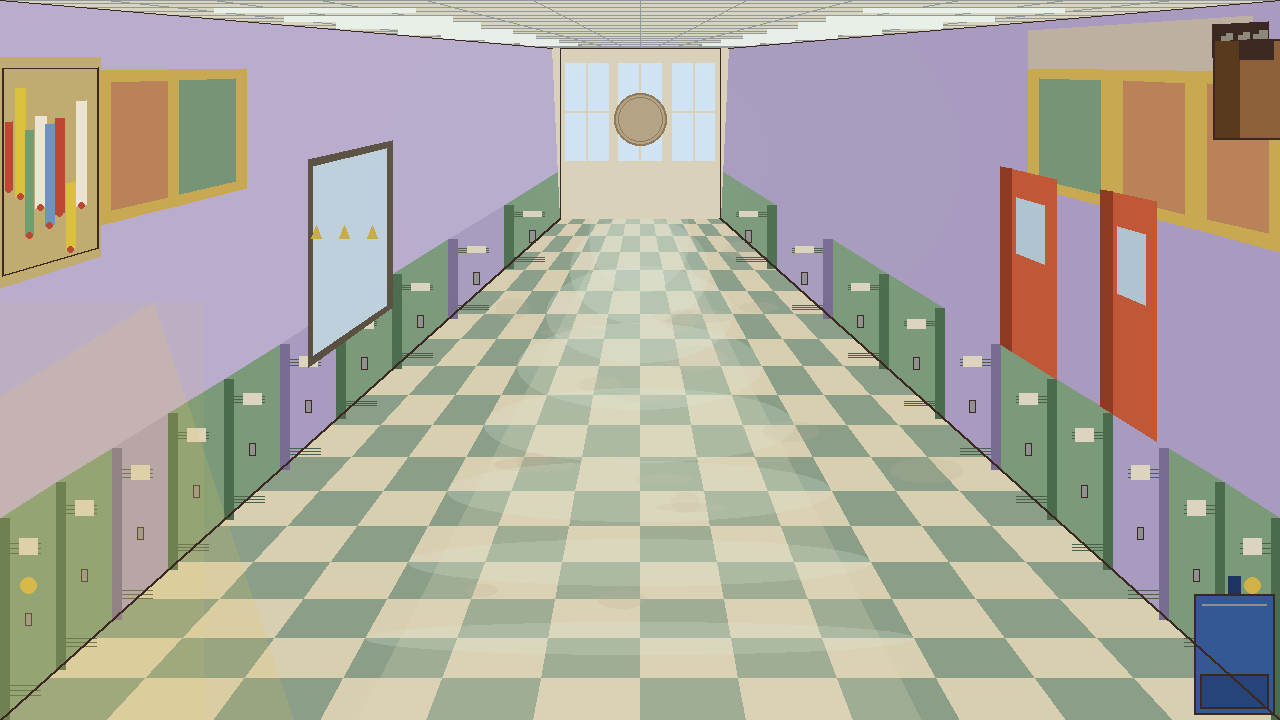
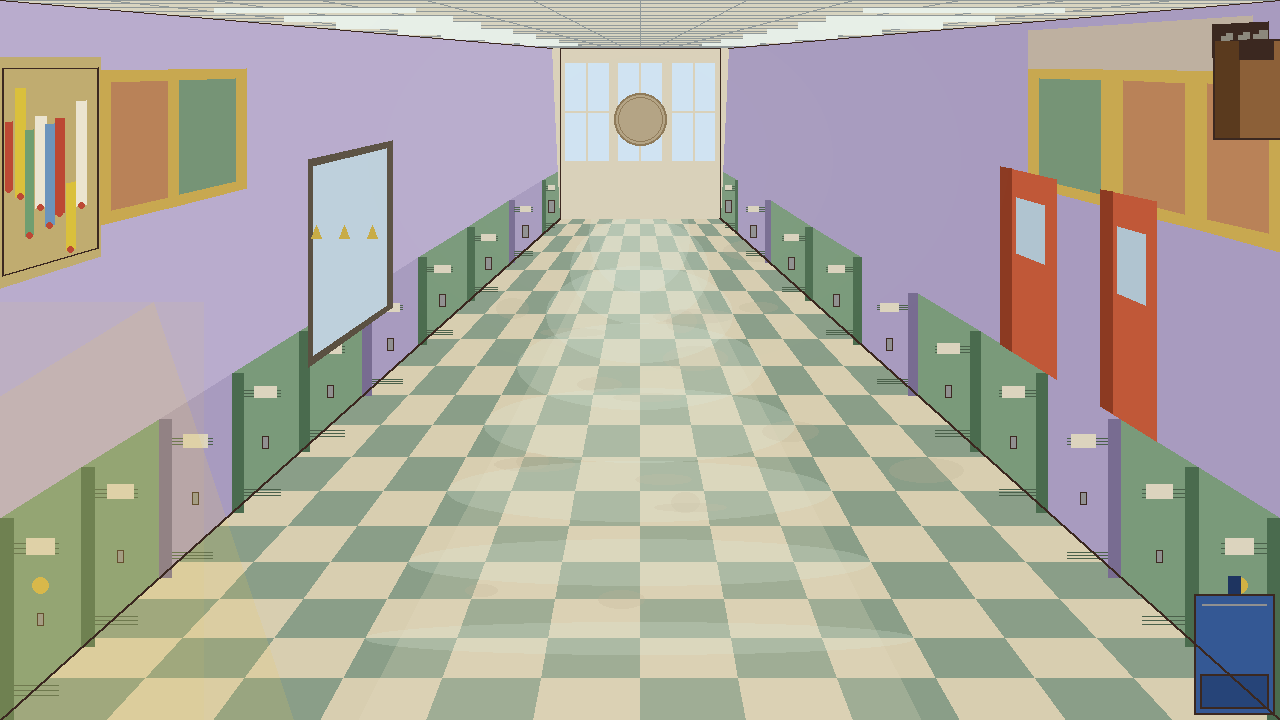
Fix school hallway locker perspective: 1-(1-t)**1.5 spacing
Lockers were linearly spaced in screen X (all ~56px wide), ignoring
perspective. Applied inverse of floor tile exponent: 1-(1-t)**1.5
for near→far direction, giving 4.5:1 near/far width ratio that matches
the floor tile convergence. Near lockers now read as wide, far lockers
compress toward VP correctly.

Changed region(s): [[0.0, 0.2444, 0.4375, 0.9167], [0.5625, 0.2444, 1.0, 0.8861]]

diff --git a/output/tools/LTG_TOOL_bg_school_hallway_v002.py b/output/tools/LTG_TOOL_bg_school_hallway_v002.py
@@ -217,7 +217,7 @@ def draw_school_hallway():
     row_ys = []
     for i in range(n_rows + 1):
         t = i / n_rows
-        t_persp = t ** 2  # exponent > 1 = convex curve: rows get taller toward camera (correct perspective)
+        t_persp = t ** 1.5  # convex: rows get taller toward camera (1.5 = moderate compression, more natural than 2.0)
         y = int(lerp(FL_FAR_L[1], FL_NEAR_L[1], t_persp))
         row_ys.append(y)
 
@@ -287,7 +287,7 @@ def draw_school_hallway():
     # Ceiling grid
     for ri in range(n_rows + 1):
         t = ri / n_rows
-        t_p = t ** 2  # convex: ceiling grid lines compress toward vanishing point
+        t_p = t ** 1.5  # convex: ceiling grid lines compress toward vanishing point
         y = int(lerp(CEIL_FAR_L[1], CEIL_NEAR_L[1], t_p))
         xl = int(wall_x_at_y(y, CEIL_NEAR_L, CEIL_FAR_L))
         xr = int(wall_x_at_y(y, CEIL_NEAR_R, CEIL_FAR_R))
@@ -306,7 +306,7 @@ def draw_school_hallway():
     for fi in range(n_fixtures):
         t_near = (fi + 1) / (n_fixtures + 1)
         t_far  = (fi + 0.6) / (n_fixtures + 1)
-        y_near = int(lerp(CEIL_FAR_L[1], CEIL_NEAR_L[1], t_near ** 2))
+        y_near = int(lerp(CEIL_FAR_L[1], CEIL_NEAR_L[1], t_near ** 1.5))
         y_far  = int(lerp(CEIL_FAR_L[1], CEIL_NEAR_L[1], t_far ** 2))
         xl_n = int(wall_x_at_y(y_near, CEIL_NEAR_L, CEIL_FAR_L))
         xr_n = int(wall_x_at_y(y_near, CEIL_NEAR_R, CEIL_FAR_R))
@@ -323,7 +323,7 @@ def draw_school_hallway():
         if fy_bot - fy_top >= 3 and fx1_r > fx0_r:
             draw_rect(draw, fx0_r, fy_top + 1, fx1_r, fy_bot - 1, CEIL_FIXTURE)
 
-        floor_y_fi = int(lerp(FAR_H_FLOOR, H, t_near ** 2))
+        floor_y_fi = int(lerp(FAR_H_FLOOR, H, t_near ** 1.5))
         floor_xl = int(floor_left_x(floor_y_fi))
         floor_xr = int(floor_right_x(floor_y_fi))
         pool_cx = (floor_xl + floor_xr) // 2
@@ -353,21 +353,25 @@ def draw_school_hallway():
         for li in range(n_lockers_visible):
             t_near = li / n_lockers_visible
             t_far  = (li + 1) / n_lockers_visible
+            # Perspective-correct spacing: matches floor tile t**1.5 (far→near).
+            # Lockers go near→far, so invert: 1-(1-t)**1.5 gives wider near, narrower far.
+            t_near_p = 1.0 - (1.0 - t_near) ** 1.5
+            t_far_p  = 1.0 - (1.0 - t_far)  ** 1.5
 
             if side == "left":
-                near_x = int(lerp(0,     FL_FAR_L[0], t_near))
-                far_x  = int(lerp(0,     FL_FAR_L[0], t_far))
-                near_floor_y = int(lerp(H, FL_FAR_L[1], t_near))
-                far_floor_y  = int(lerp(H, FL_FAR_L[1], t_far))
-                near_ceil_y  = int(lerp(CEIL_NEAR_L[1], CEIL_FAR_L[1], t_near))
-                far_ceil_y   = int(lerp(CEIL_NEAR_L[1], CEIL_FAR_L[1], t_far))
+                near_x = int(lerp(0,     FL_FAR_L[0], t_near_p))
+                far_x  = int(lerp(0,     FL_FAR_L[0], t_far_p))
+                near_floor_y = int(lerp(H, FL_FAR_L[1], t_near_p))
+                far_floor_y  = int(lerp(H, FL_FAR_L[1], t_far_p))
+                near_ceil_y  = int(lerp(CEIL_NEAR_L[1], CEIL_FAR_L[1], t_near_p))
+                far_ceil_y   = int(lerp(CEIL_NEAR_L[1], CEIL_FAR_L[1], t_far_p))
             else:
-                near_x = int(lerp(W,     FL_FAR_R[0], t_near))
-                far_x  = int(lerp(W,     FL_FAR_R[0], t_far))
-                near_floor_y = int(lerp(H, FL_FAR_R[1], t_near))
-                far_floor_y  = int(lerp(H, FL_FAR_R[1], t_far))
-                near_ceil_y  = int(lerp(CEIL_NEAR_R[1], CEIL_FAR_R[1], t_near))
-                far_ceil_y   = int(lerp(CEIL_NEAR_R[1], CEIL_FAR_R[1], t_far))
+                near_x = int(lerp(W,     FL_FAR_R[0], t_near_p))
+                far_x  = int(lerp(W,     FL_FAR_R[0], t_far_p))
+                near_floor_y = int(lerp(H, FL_FAR_R[1], t_near_p))
+                far_floor_y  = int(lerp(H, FL_FAR_R[1], t_far_p))
+                near_ceil_y  = int(lerp(CEIL_NEAR_R[1], CEIL_FAR_R[1], t_near_p))
+                far_ceil_y   = int(lerp(CEIL_NEAR_R[1], CEIL_FAR_R[1], t_far_p))
 
             locker_top_near = int(lerp(near_floor_y, near_ceil_y, 0.28))
             locker_top_far  = int(lerp(far_floor_y,  far_ceil_y,  0.28))
